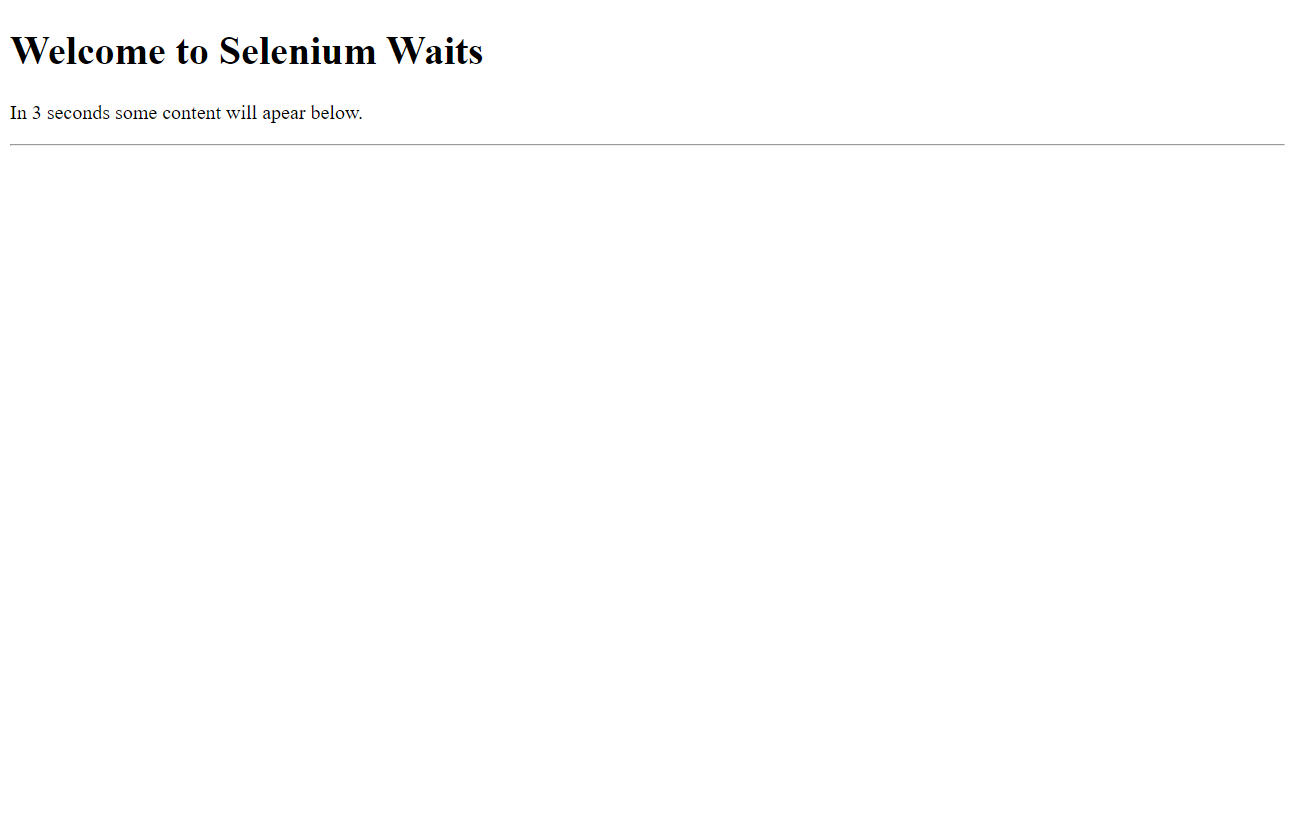
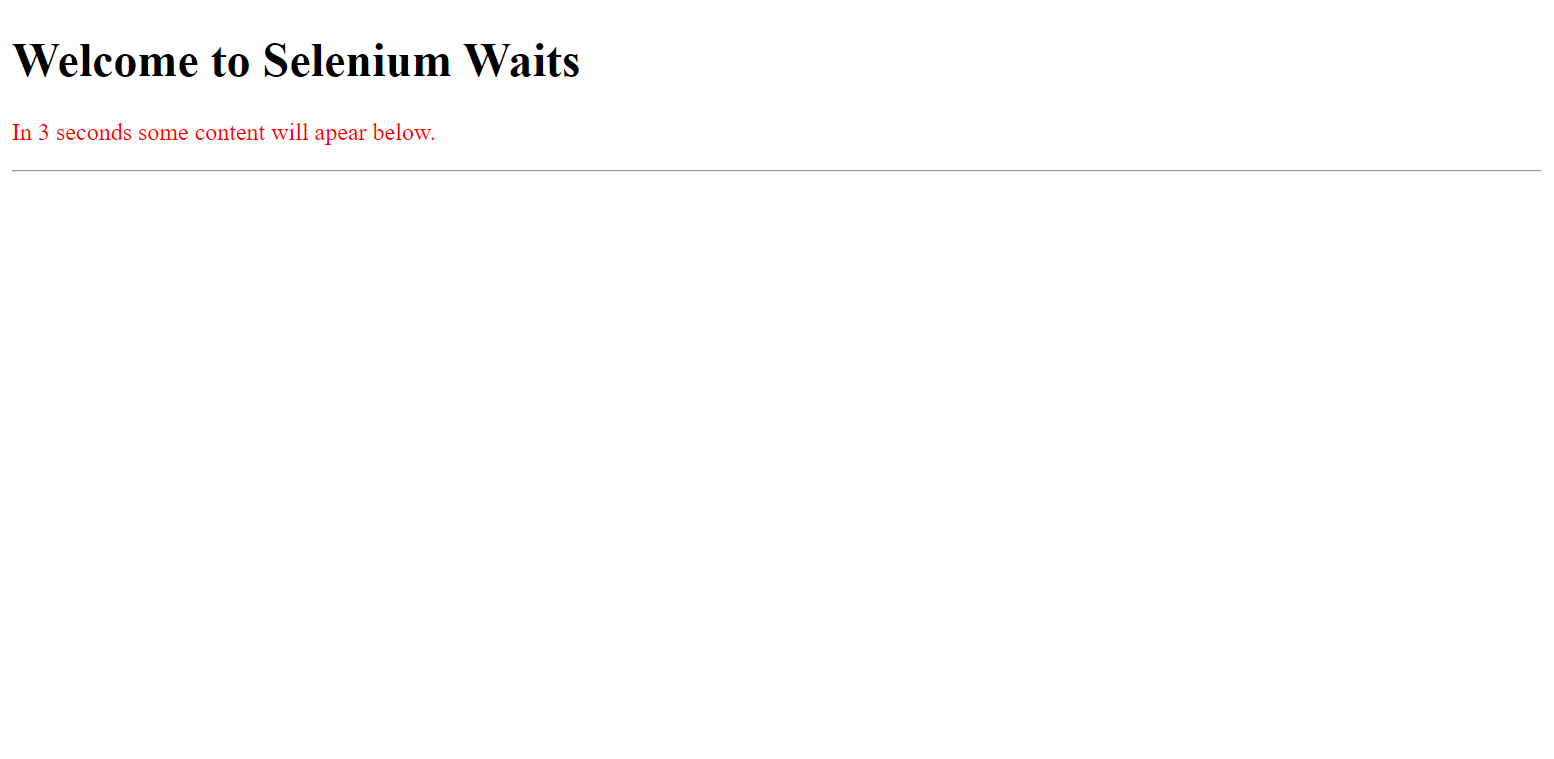
automated push

Changed region(s): [[0.0, 0.0303, 0.3707, 0.1818]]

diff --git a/04_selenium/selenium_2024_09_12/web/waits.html b/04_selenium/selenium_2024_09_12/web/waits.html
@@ -7,7 +7,7 @@
 </head>
 <body>
     <h1>Welcome to Selenium Waits</h1>
-    <p>In 3 seconds some content will apear below.</p>
+    <p style="color: red;">In 3 seconds some content will apear below.</p>
     <hr>
     <div id="content"></div>
 
@@ -21,6 +21,10 @@
             input.name = 'first-name';
             input.placeholder = 'enter first name';
             contentDiv.appendChild(input)
+            let col = document.getElementsByTagName('p');
+            p = col.item(0);
+            p.innerHTML = 'Now an input is displayed bellow:'
+            p.style = 'color: green;'
         }, 3000);
     </script>
 </body>

diff --git a/04_selenium/selenium_2024_09_12/c.screenshots/demo1.py b/04_selenium/selenium_2024_09_12/c.screenshots/demo1.py
@@ -11,9 +11,11 @@ driver.save_screenshot('../screenshots/01_open page.png')
 try:
     # locate the element with implicit wait
     input_element = driver.find_element(By.ID, 'first')
+    # second screenshot - input displayed
+    driver.save_screenshot('../screenshots/02_input_displayed.png')
     input_element.send_keys('Yaakov')
-    # second screenshot - input filled
-    driver.save_screenshot('../screenshots/02_input_filled.png')
+    # third screenshot - input filled
+    driver.save_screenshot('../screenshots/03_input_filled.png')
 except Exception as e:
     print('input element not found')
 finally:
